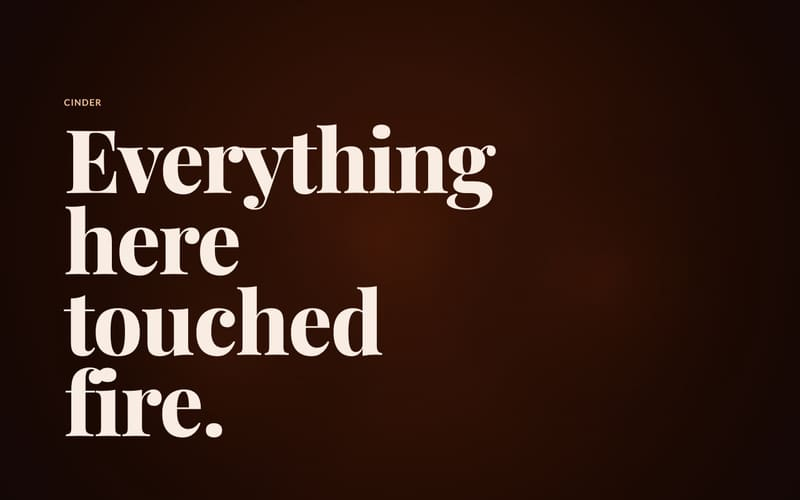
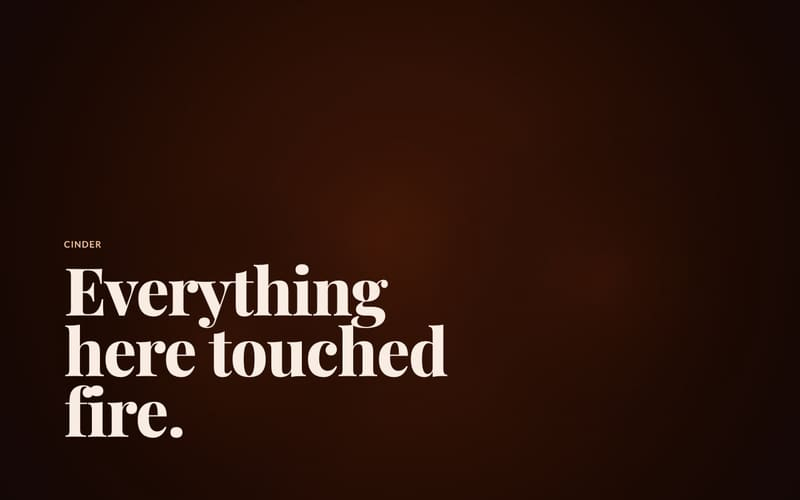
Keep headings inside the screen on short laptops (#389)
* Bound heading sizes by viewport height so they fit short laptop screens

Headings were sized by viewport width alone. On a 1366x768 laptop, 29
sections across 13 templates grew taller than their 100vh sticky frame,
which clipped the top and bottom of the heading. Each size now takes
min(Nvw, 1.2*N vh), measured to leave no section taller than its frame
at 1280x720, 1280x800, 1366x768, 1440x900, 1536x864 or 1920x1080, with
phones unchanged.

* Recapture template stills at the height-bounded heading sizes

Changed region(s): [[0.0625, 0.24, 0.625, 0.9], [0.0625, 0.18, 0.125, 0.21]]

diff --git a/src/__tests__/displayParity.test.ts b/src/__tests__/displayParity.test.ts
@@ -1,6 +1,7 @@
 import { describe, it, expect } from "vitest";
 import { readFileSync } from "node:fs";
 import { DISPLAY_STYLES, displayStyle } from "@/lib/displayStyles";
+import { TYPE_SCALES } from "@/lib/themeCss";
 
 /**
  * The preview has to predict the ZIP.
@@ -16,6 +17,8 @@ import { DISPLAY_STYLES, displayStyle } from "@/lib/displayStyles";
  */
 const PREVIEW = readFileSync("src/components/SiteRenderer.tsx", "utf8");
 const ROUTE = readFileSync("src/app/api/export-site/route.ts", "utf8");
+const BUILD_SITE = readFileSync("plugins/scrollcraft/skills/scrollcraft/scripts/build-site.mjs", "utf8");
+const ENGINE_CSS = readFileSync("plugins/scrollcraft/skills/scrollcraft/engine/scrollcraft.css", "utf8");
 
 describe("the display treatment has one definition", () => {
   it("gives a statement tighter tracking and less weight than an ordinary heading", () => {
@@ -55,5 +58,15 @@ describe("the display treatment has one definition", () => {
     expect(ROUTE).toContain("const H = displayStyle(s.kind);");
     expect(ROUTE).toContain("${DISPLAY_STYLES.statement.letterSpacing}");
     expect(ROUTE).not.toContain("-0.045em");
+  });
+
+  it("bounds every heading by the viewport's height as well as its width", () => {
+    // Sized by width alone, poster and statement headings grew taller than their 100vh
+    // sticky frame on a 1366x768 laptop, which clipped 29 sections across 13 templates.
+    const sizes = [...Object.values(TYPE_SCALES).map((s) => s.heading), DISPLAY_STYLES.heading.fontSize, DISPLAY_STYLES.statement.fontSize];
+    for (const size of sizes) expect(size).toMatch(/min\(\d+(\.\d+)?vw,\d+(\.\d+)?vh\)/);
+    // The plugin engine keeps its own copy of the scales and the statement size.
+    for (const [name, s] of Object.entries(TYPE_SCALES)) expect(BUILD_SITE).toContain(`${name}: { heading: "${s.heading}"`);
+    expect(ENGINE_CSS).toMatch(/\.sc-statement \{\s*font-size: clamp\(2\.75rem, min\(\d+(\.\d+)?vw, \d+(\.\d+)?vh\), 9rem\);/);
   });
 });

diff --git a/src/lib/themeCss.ts b/src/lib/themeCss.ts
@@ -6,10 +6,12 @@ export interface TypeScale {
   measure: number;
 }
 
+// The vh term keeps a heading inside its 100vh sticky frame on a short laptop screen,
+// where width alone set it taller than the frame and the frame clipped it.
 export const TYPE_SCALES: Record<"compact" | "editorial" | "poster", TypeScale> = {
-  compact: { heading: "clamp(1.6rem,3.4vw,2.6rem)", body: "1rem", measure: 560 },
-  editorial: { heading: "clamp(2rem,5vw,4rem)", body: "1.125rem", measure: 600 },
-  poster: { heading: "clamp(2.6rem,8vw,6.5rem)", body: "1.25rem", measure: 640 },
+  compact: { heading: "clamp(1.6rem,min(3.4vw,4.08vh),2.6rem)", body: "1rem", measure: 560 },
+  editorial: { heading: "clamp(2rem,min(5vw,6vh),4rem)", body: "1.125rem", measure: 600 },
+  poster: { heading: "clamp(2.6rem,min(8vw,9.6vh),6.5rem)", body: "1.25rem", measure: 640 },
 };
 
 export interface CompiledTheme {

diff --git a/src/lib/displayStyles.ts b/src/lib/displayStyles.ts
@@ -19,13 +19,13 @@ export interface DisplayStyle {
 
 export const DISPLAY_STYLES: Record<"heading" | "statement", DisplayStyle> = {
   heading: {
-    fontSize: "var(--sc-heading-size, clamp(2rem,5vw,4rem))",
+    fontSize: "var(--sc-heading-size, clamp(2rem,min(5vw,6vh),4rem))",
     fontWeight: "var(--sc-display-weight, 900)",
     lineHeight: 1,
     letterSpacing: "var(--sc-display-tracking, -0.03em)",
   },
   statement: {
-    fontSize: "clamp(2.75rem,11vw,9rem)",
+    fontSize: "clamp(2.75rem,min(11vw,13.2vh),9rem)",
     fontWeight: "var(--sc-display-weight, 800)",
     lineHeight: 0.92,
     letterSpacing: "var(--sc-display-tracking, -0.045em)",

diff --git a/plugins/scrollcraft/skills/scrollcraft/engine/scrollcraft.css b/plugins/scrollcraft/skills/scrollcraft/engine/scrollcraft.css
@@ -57,7 +57,7 @@ body {
 .section-content[data-reveal="stagger"].visible > *:nth-child(n+5) { transition-delay: 360ms; }
 
 .sc-statement {
-  font-size: clamp(2.75rem, 11vw, 9rem);
+  font-size: clamp(2.75rem, min(11vw, 13.2vh), 9rem);
   font-weight: var(--sc-display-weight, 800);
   line-height: 0.92;
   letter-spacing: var(--sc-display-tracking, -0.045em);
